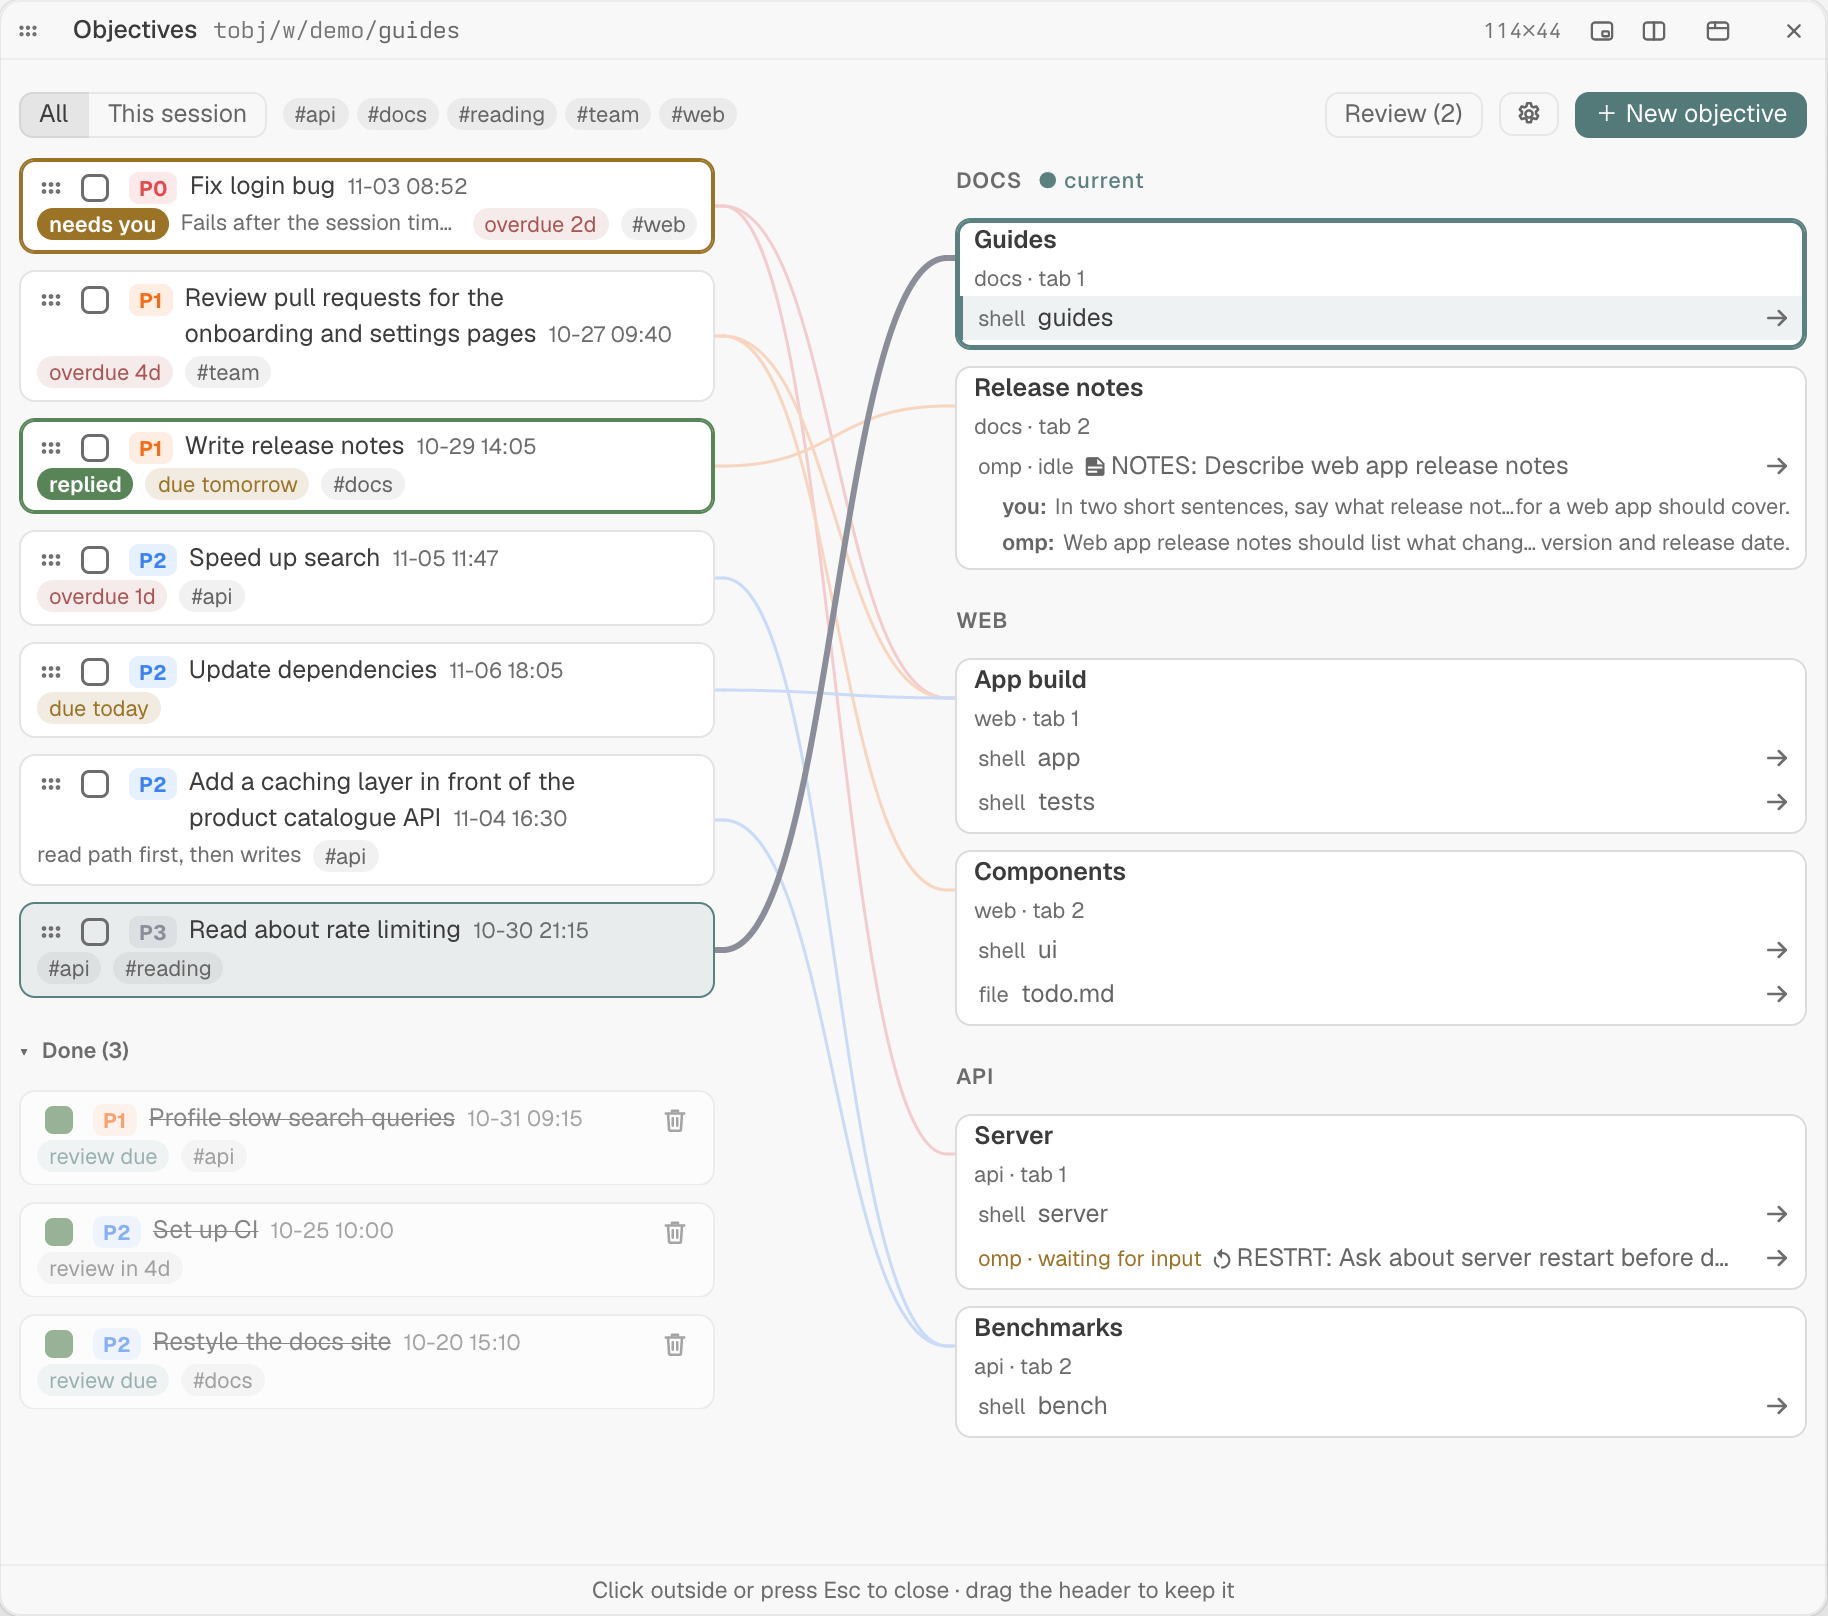
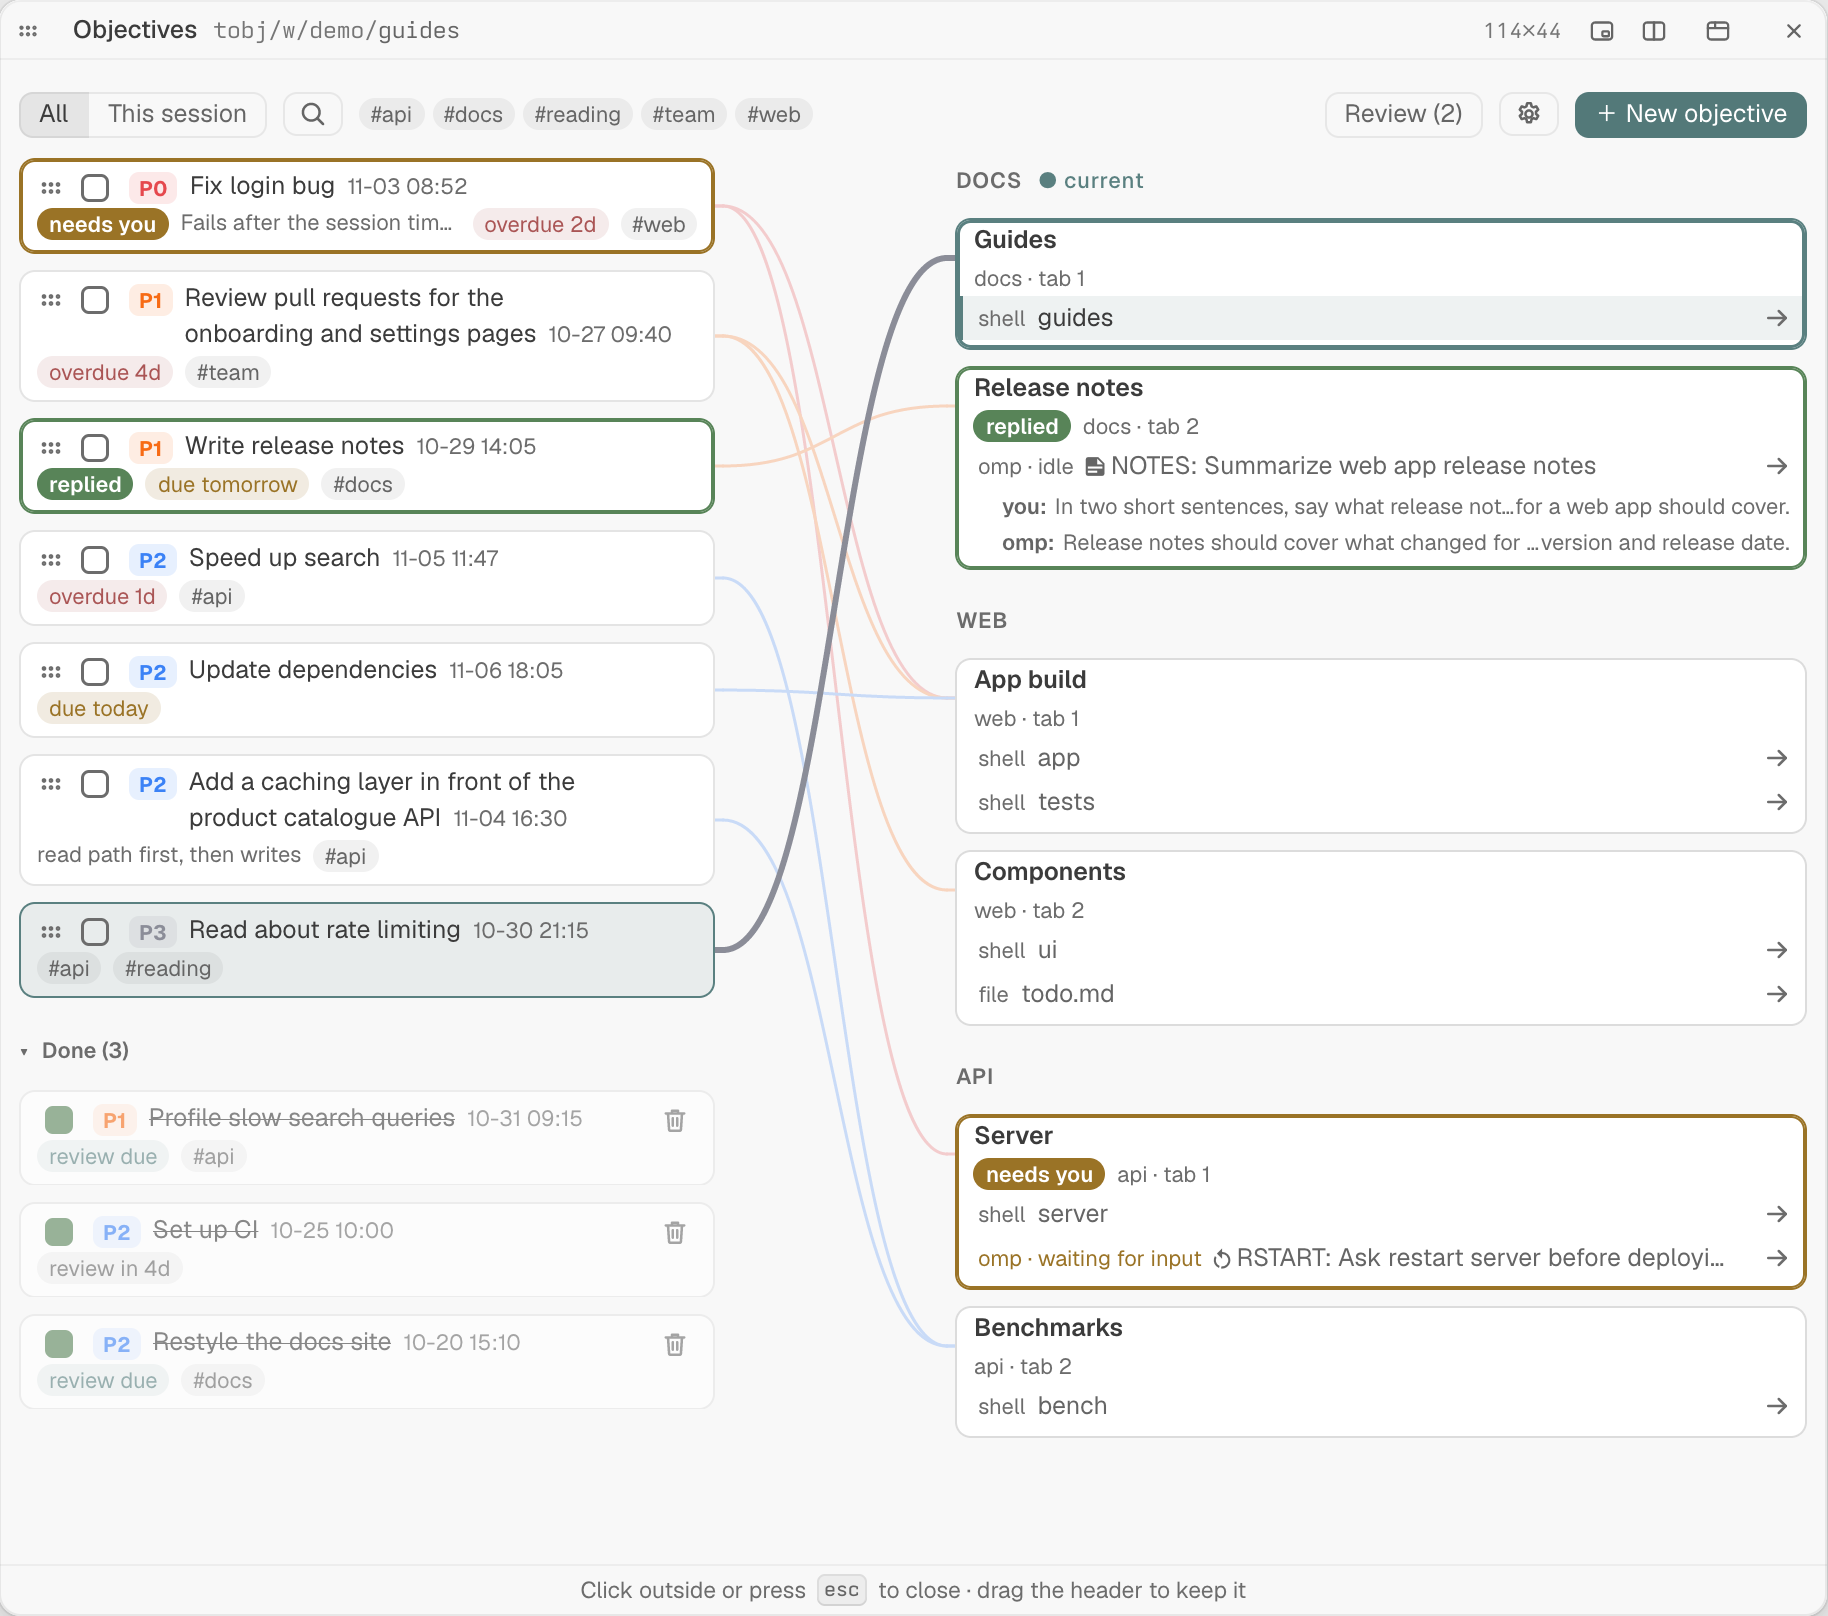
Retake the README's graph screenshot with tab marks and the Search button

diff --git a/openspec/changes/search-and-tab-marks/tasks.md b/openspec/changes/search-and-tab-marks/tasks.md
@@ -169,7 +169,7 @@ Checks run in the headless harness at `/tmp/tobj` unless marked **(live)**.
 
 ## 3. The README screenshot
 
-- [ ] 3.1 Take `docs/graph.png` again (design D8):
+- [x] 3.1 Take `docs/graph.png` again (design D8):
   - the demo layout and store rebuilt from the current image: docs (Guides; Release notes, with an omp pane whose reply is unseen), web (App build, split into app and tests; Components, with a shell and `todo.md`), api (Server, with a shell and an omp pane waiting for input; Benchmarks);
   - due dates set so that the chips read as in the current image;
   - the same window size (`ctl resize 1045 928`) and crop (914 × 808);
@@ -182,6 +182,28 @@ Checks run in the headless harness at `/tmp/tobj` unless marked **(live)**.
   - "Screenshots match this version": open nodes show grips, and no node shows ⋯;
   - every line end sits within 2 px of its node and tab header centres, read from the shot's layout JSON;
   - the user approved the draft.
+
+  Result (harness, 2026-11-11):
+  - **Layout:** a fresh serve in `/tmp/tobj/w/demo/guides` held:
+    - docs: Guides 3, and Release notes 5, with omp in pane 4;
+    - web: App build 8, split into app and tests; Components 12, with the shell `ui` and `todo.md`;
+    - api: Server 15, with a shell and omp in pane 16; Benchmarks 19.
+  - **Store:** rebuilt from the old image's titles, priorities, created times, tags, notes and chips. Due dates were set from today, so the chips read "overdue 2d", "overdue 4d", "due tomorrow", "overdue 1d", "due today", "review due" and "review in 4d" as before. Release notes' omp row was stored open.
+  - **Chats:** Release notes' chat answered "In two short sentences, say what release notes for a web app should cover." while Guides had focus. Server's chat put a yes/no question about restarting the server and waited (`idle` with its alert, and `waiting_input`).
+  - **Window and crop:** `ctl resize 1045 928`, the glimpse cropped at its 914.31 × 808.08 box, so `graph.png` is 1828 × 1616 as before.
+  - **Content:**
+    - opened from pane 2 in Guides, with nothing selected and the Done group open;
+    - "Read about rate limiting" is tinted, with its thick line to Guides;
+    - Release notes is ringed green with "replied" and its "you:"/"omp:" lines; Server is ringed amber with "needs you"; "Fix login bug" and "Write release notes" keep their marks;
+    - the header shows the Search button after the scope segment;
+    - every open node has a grip, and no node has ⋯.
+  - **Line ends:** measured 3 px inside the gap column's edges against the shot's layout JSON, all 7 left ends sit within 0.3 px of their objective nodes' centres, and all 6 right ends within 0.3 px of their tab headers' centres. 1 px inside, the right column hit the tab cards' borders instead.
+  - **Alt text:** it now names the Search button, Release notes ringed green with "replied", and Server ringed amber with "needs you". "Graph screenshot first": the README's first image is still `docs/graph.png` (line 5).
+  - **Approval:** the user approved the draft before it was committed.
+  - **Cleanup:**
+    - the serve was stopped with `ctl quit`;
+    - removed the chat folders this run created: `--private-tmp-tobj-w-bench--`, `-demo-notes--`, `-demo-serverchat--` and `-split--`, and this run's chat in `--private-tmp-tobj-w-server--`;
+    - left as they were: that folder's chat from 2026-11-09, and `--private-tmp-tobj-w-docs--` (2026-11-09).
 
 ## 4. Release 0.25.0
 

diff --git a/README.md b/README.md
@@ -2,7 +2,7 @@
 
 A [Tern](https://docs.stencil.so/tern) plugin for keeping track of what you are working on across sessions, and for remembering what you finished. It keeps one list of objectives and links each one to the tabs where its work happens, shown as a graph: objectives on the left, tabs on the right, a line for every link. Click a tab or pane to jump straight to it, in any session. Finished objectives come back for review on a spaced-repetition schedule, so you revisit what you did before you forget it.
 
-![The objectives graph, opened from the Guides tab: open objectives on the left by priority, P0 first, each with a grip to move it, a priority, due date and tags, two of them with titles wrapped onto two lines; "Fix login bug" ringed in amber with a "needs you" chip, and "Write release notes" in green with "replied"; "Read about rate limiting", which links Guides, tinted, with a thick line to Guides while the other lines fade; below them the open Done group, its objectives marked "review due" or "review in 4d"; the header has "Review (2)", a gear button for Configure and "＋ New objective"; tabs grouped by session on the right, with a line for each link, an omp chat waiting for input in the Server tab and an open chat row showing "you:" and "omp:"](docs/graph.png)
+![The objectives graph, opened from the Guides tab: open objectives on the left by priority, P0 first, each with a grip to move it, a priority, due date and tags, two of them with titles wrapped onto two lines; "Fix login bug" ringed in amber with a "needs you" chip, and "Write release notes" in green with "replied"; "Read about rate limiting", which links Guides, tinted, with a thick line to Guides while the other lines fade; below them the open Done group, its objectives marked "review due" or "review in 4d"; the header has a Search button after All and This session, "Review (2)", a gear button for Configure and "＋ New objective"; tabs grouped by session on the right, with a line for each link: "Release notes" ringed in green with "replied", its open chat row showing "you:" and "omp:", and "Server" ringed in amber with "needs you" for its omp chat waiting for input](docs/graph.png)
 
 ## Features
 
